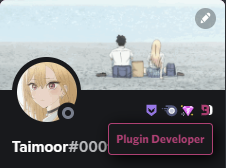
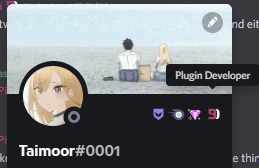
Update bdDevBadges v1.0.2

diff --git a/Plugins/bdDevBadges/bdDevBadges.plugin.js b/Plugins/bdDevBadges/bdDevBadges.plugin.js
@@ -2,7 +2,7 @@
  * @name bdDevBadges
  * @author Taimoor
  * @authorId 220161488516546561
- * @version 1.0.1
+ * @version 1.0.2
  * @description Show badges for BetterDiscord Plugin and Theme Developers.
  * @authorLink https://github.com/Taimoor-Tariq
  * @source https://raw.githubusercontent.com/Taimoor-Tariq/BetterDiscordStuff/main/Plugins/bdDevBadges/bdDevBadges.plugin.js
@@ -43,7 +43,7 @@ module.exports = (() => {
                     github_username: "Taimoor-Tariq",
                 },
             ],
-            version: "1.0.1",
+            version: "1.0.2",
             description:
                 "Show badges for BetterDiscord Plugin and Theme Developers.",
             github: "https://github.com/Taimoor-Tariq/BetterDiscordStuff/blob/main/Plugins/bdDevBadges/bdDevBadges.plugin.js",
@@ -51,7 +51,7 @@ module.exports = (() => {
         },
         changelog: [
             {title: "Improvements", type: "improved", items: [
-                "New Badges!",
+                "Better Tooltips!",
             ]}
         ],
         main: "index.js",
@@ -89,17 +89,30 @@ module.exports = (() => {
     visibility: hidden;
     position: absolute;
     background-color: var(--background-floating);
-    color: #fff;
-    padding: 12px 10px;
-    font-size: 12pt;
-    bottom: 130%;
-    left: 0;
-    white-space: nowrap;
-    font-weight: bold;
-    border: 1px solid #fff;
+    box-shadow: var(--elevation-high);
+    color: var(--text-normal);
     border-radius: 5px;
-    filter: drop-shadow(5px 5px 10px #000);
+    font-size: 14px;
+    white-space: nowrap;
+    font-weight: 500;
+    padding: 8px 12px;
+    bottom: 140%;
+    left: -240%;
     z-index: 999999;
+}
+div[class^="userPopout-"] .bd-dev-badge-tooltip {
+    bottom: 220%;
+}
+
+.bd-dev-badge-tooltip:after {
+    content: "";
+    position: absolute;
+    top: 100%;
+    left: 50%;
+    margin-left: -5px;
+    border-width: 5px;
+    border-style: solid;
+    border-color: var(--background-floating) transparent transparent transparent;
 }
 
 .bd-dev-dev-badge:hover .bd-dev-badge-tooltip,
@@ -116,22 +129,17 @@ module.exports = (() => {
     position: relative;
 }
 
-.bd-dev-dev-badge .bd-dev-badge-tooltip { color: #3e82e5; border-color: #3e82e5; }
-.bd-mod-dev-badge .bd-dev-badge-tooltip { color: #2ecc71; border-color: #2ecc71; }
-.bd-theme-dev-badge .bd-dev-badge-tooltip { color: #f1c40f; border-color: #f1c40f; }
-.bd-plugin-dev-badge .bd-dev-badge-tooltip { color: #c93f73; border-color: #c93f73; }
-
-div[class^="userPopout-"] .bd-dev-badge-tooltip {
-    top: 130%;
-    right: 0;
-    left: auto;
-    bottom: auto;
-}
-
+.userPopout-2j1gM4,
+.headerTop-3GPUSF,
 .header-2jRmjb { overflow: unset !important; }
 .header-2jRmjb,
 .headerText-2z4IhQ { display: flex !important; }
-.headerText-2z4IhQ  .bd-dev-badge { margin-top: 2px; }`,
+.headerText-2z4IhQ  .bd-dev-badge { margin-top: 2px; }
+
+.headerNormal-3Zn_yu {
+    border-radius: 8px 8px 0 0;
+    overflow: hidden;
+}`,
         { PluginUtilities, Logger, Patcher, DiscordModules, WebpackModules } =
             Api,
         { React } = DiscordModules;
